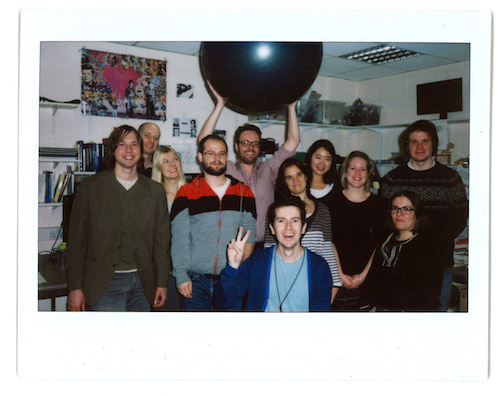
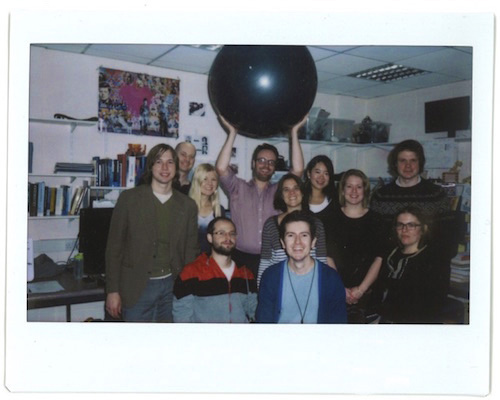
Add pictures

diff --git a/a_news.md b/a_news.md
@@ -12,4 +12,4 @@ permalink: /news/
 * 01.01.16 - A collaboration with [KCL](http://www.kcl.ac.uk/nms/depts/physics/people/academicstaff/van-Schilfgaarde-.aspx) and [ICL](http://www.imperial.ac.uk/people/piers.barnes) on the optical properties of CH<sub>3</sub>NH<sub>3</sub>PbI<sub>3</sub> is published in [Nanoscale](http://pubs.rsc.org/en/content/articlelanding/2016/nr/c5nr05435d).
 * 21.12.15 - The new website goes live. Goodbye [iWeb](https://en.wikipedia.org/wiki/IWeb), hello [Jekyll](http://jekyllrb.com/). 
 
-![](/assets/emrs.jpg){: .center-image }
+![](/assets/group_2014.jpg){: .center-image }
